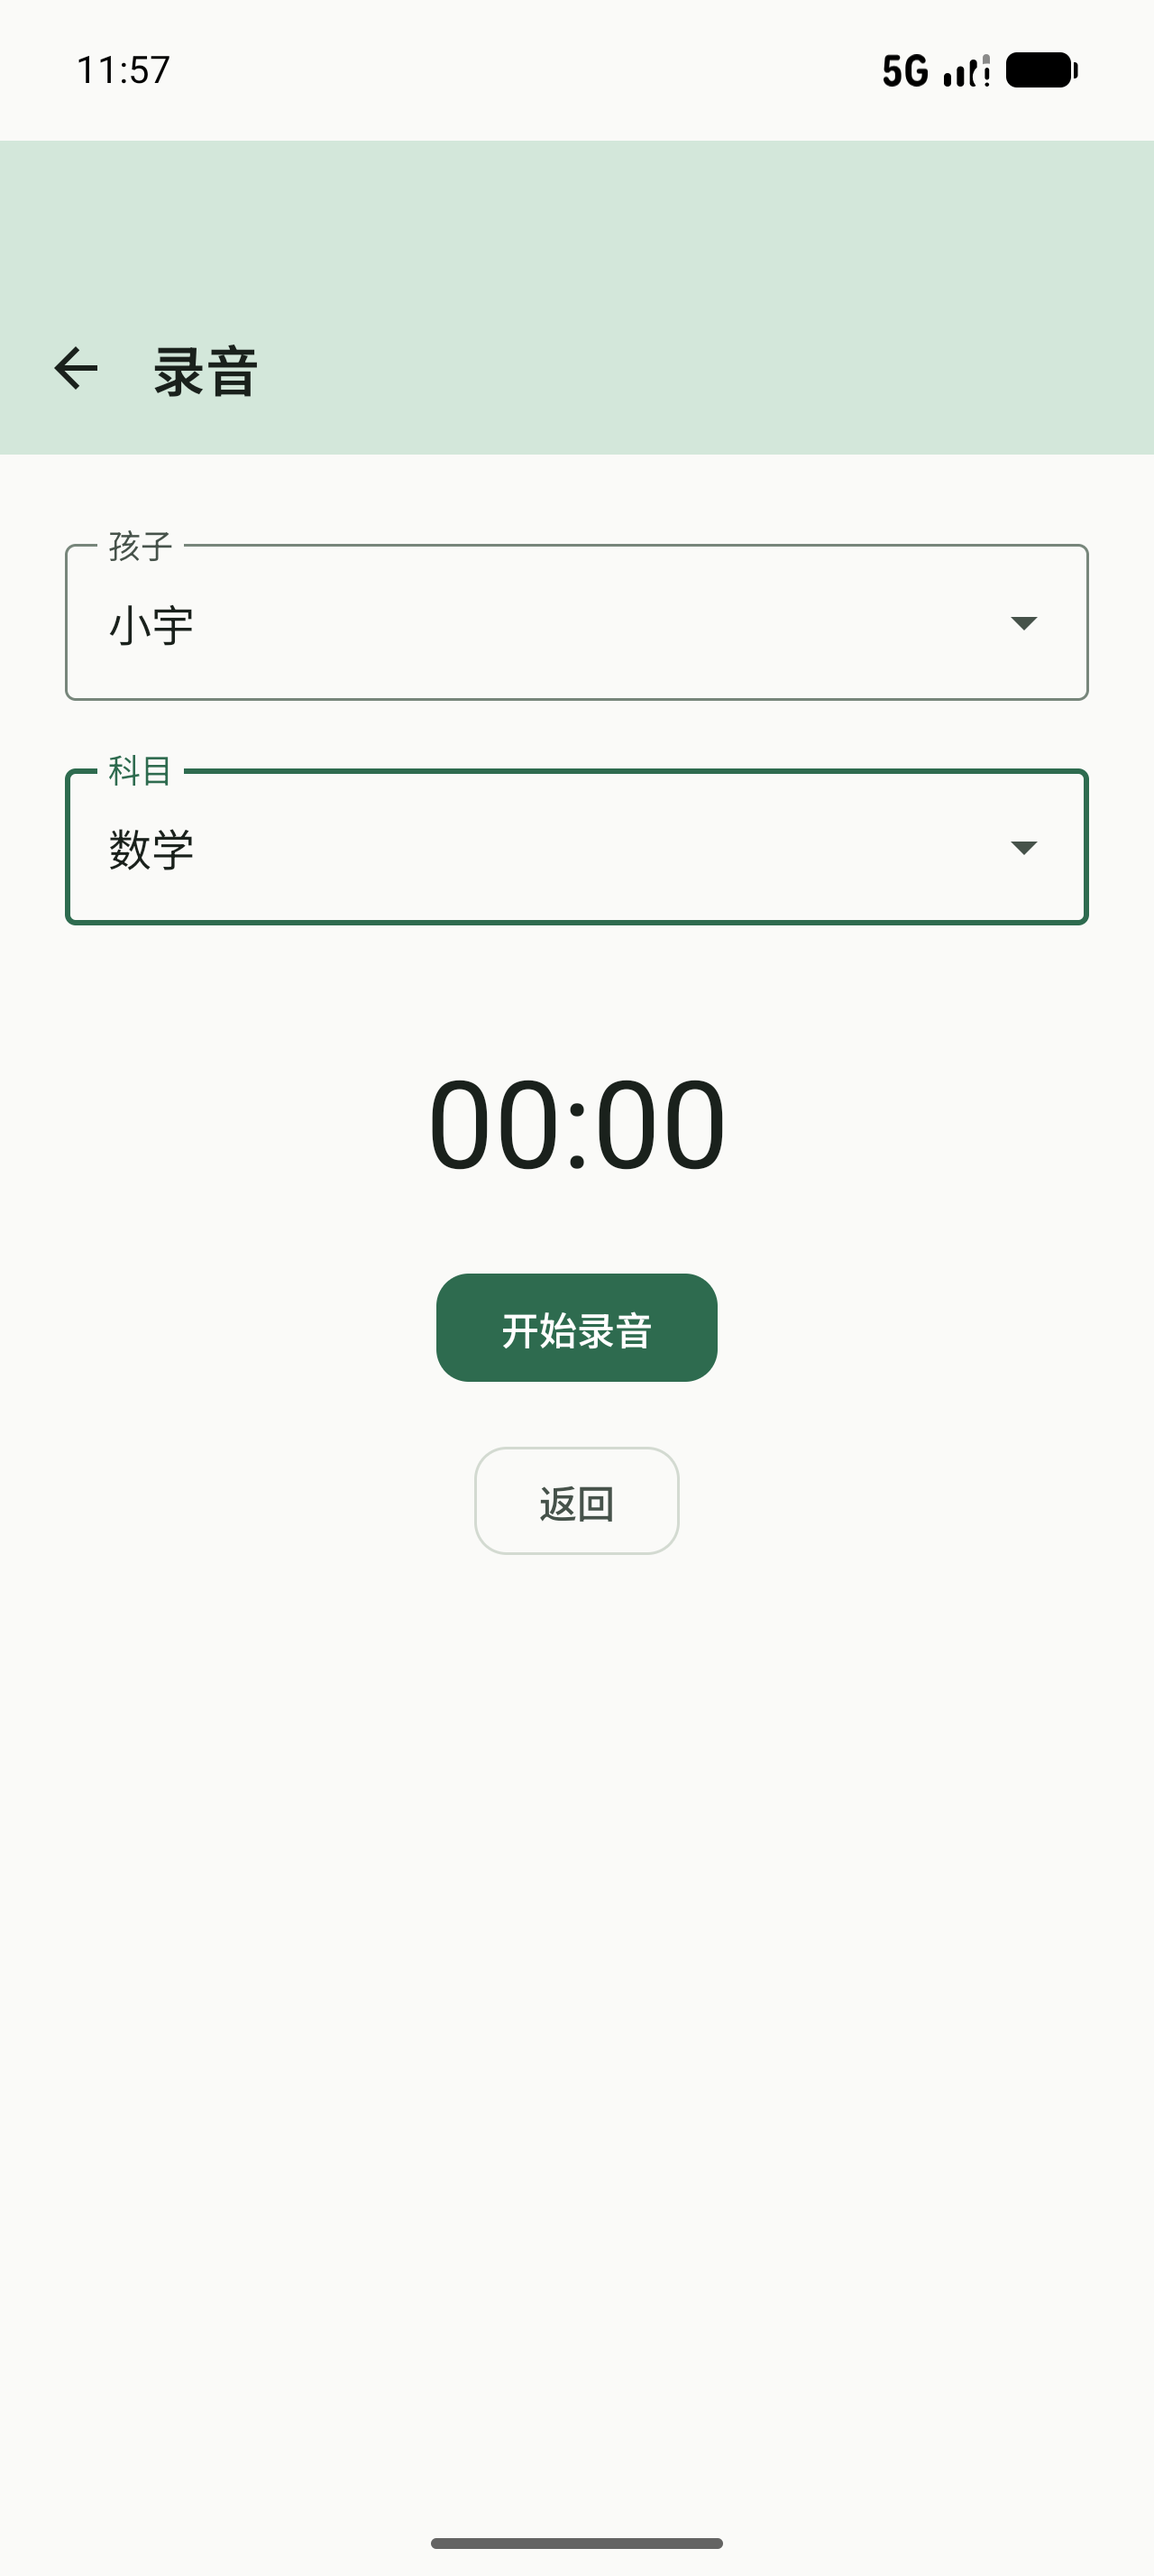
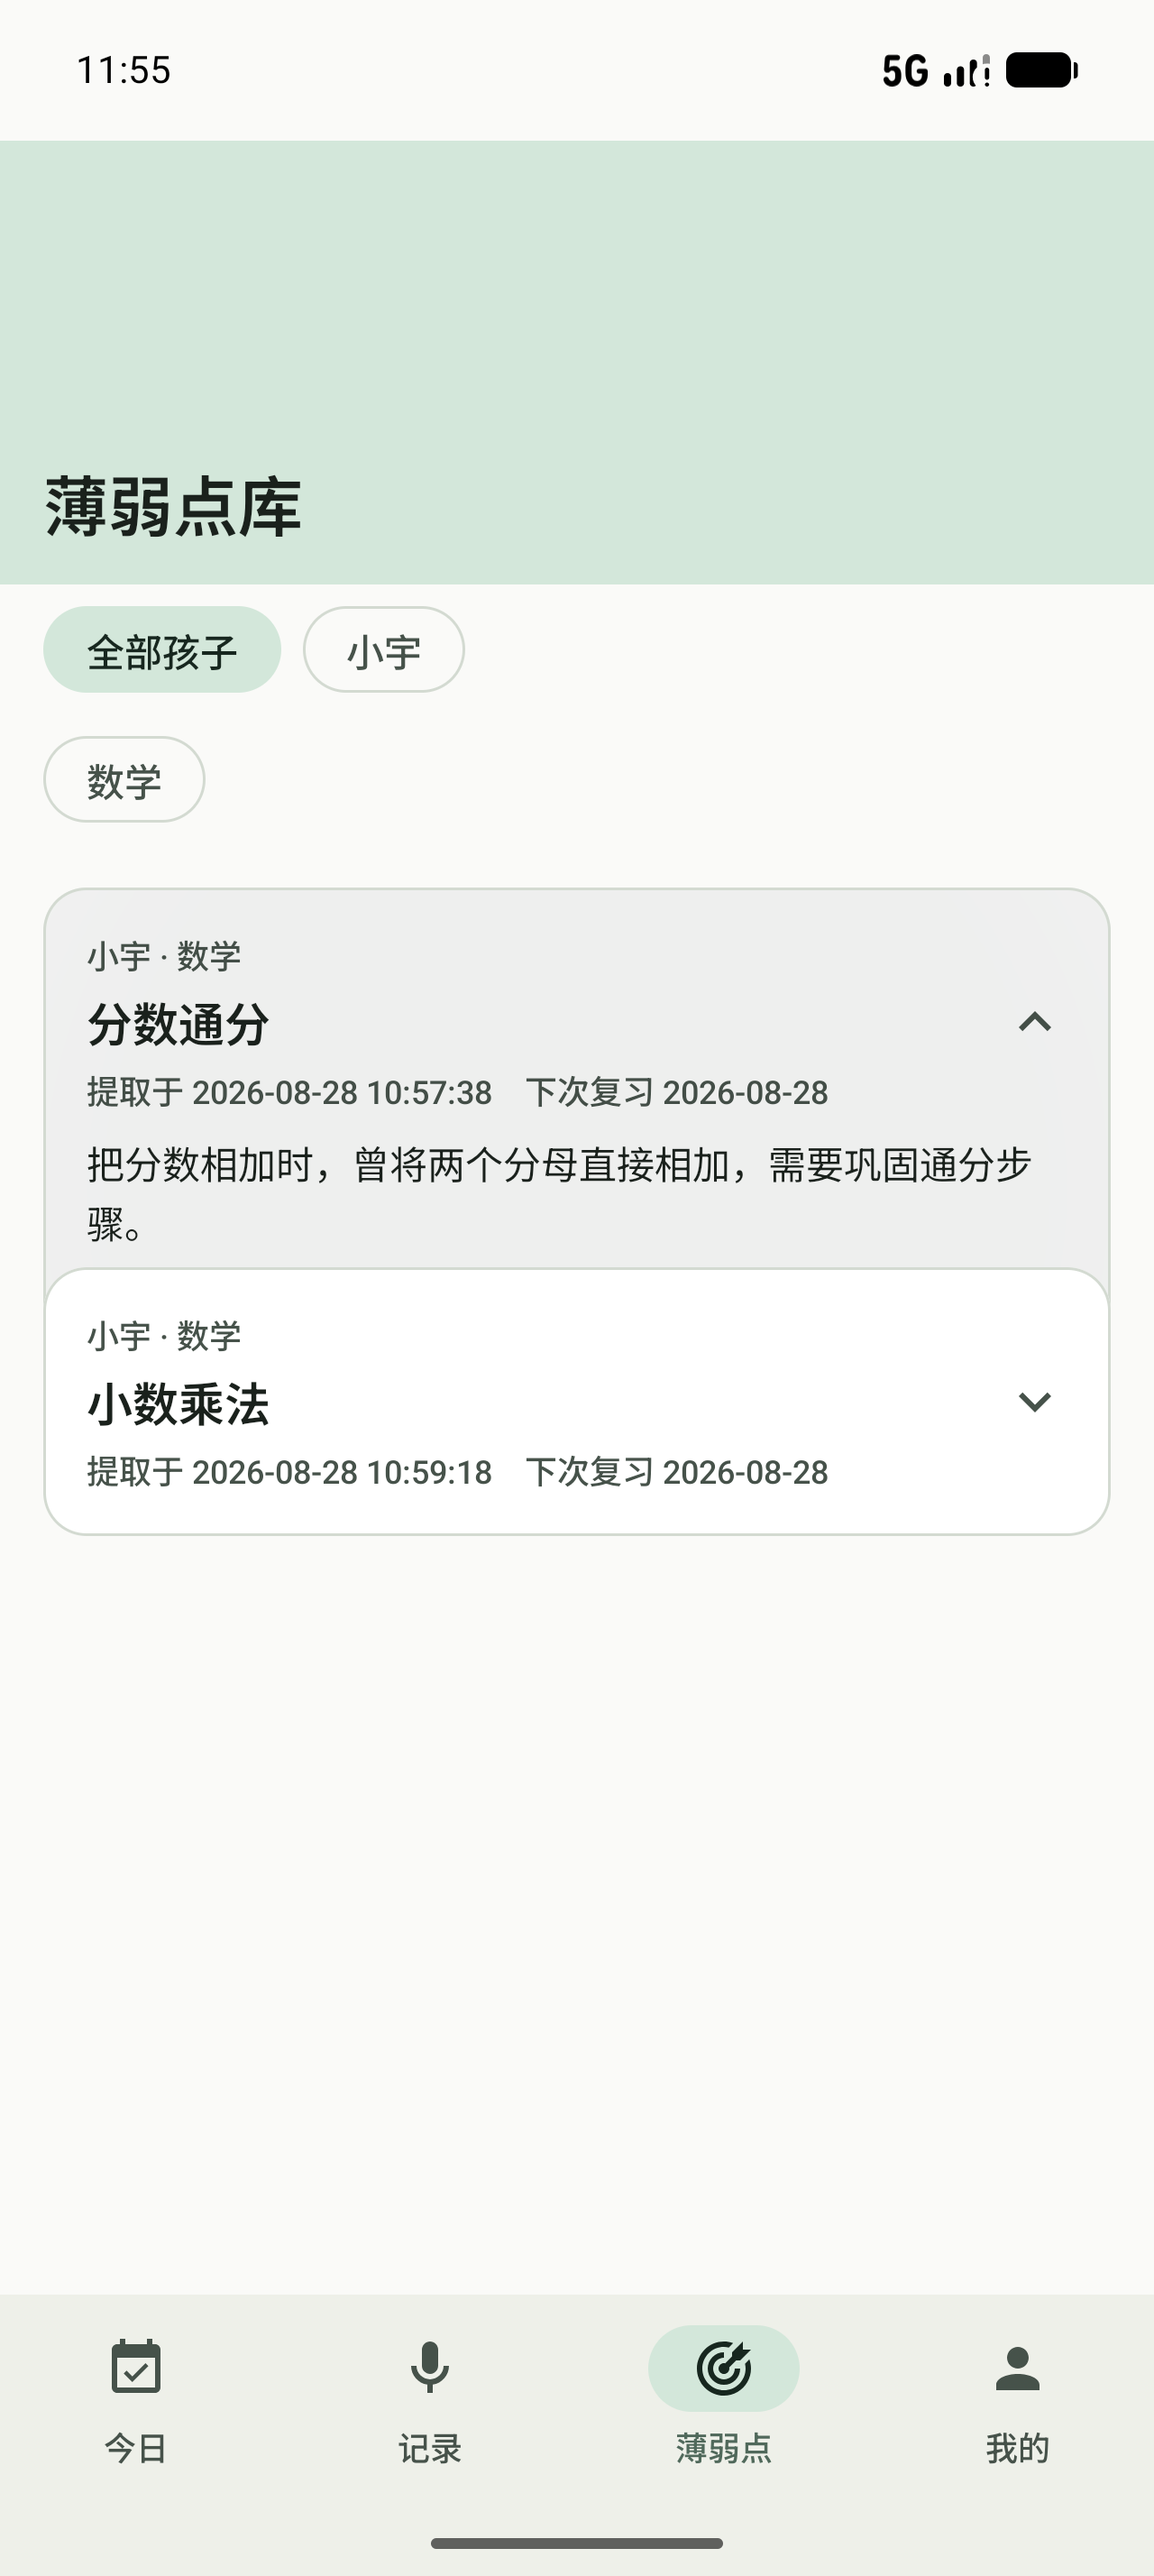
docs: 修正 README 截图与标题错配（按实际内容重命名）

diff --git a/README.md b/README.md
@@ -54,17 +54,17 @@
 
 ## 📱 界面预览 · Screenshots
 
-> 以下为**真实运行截图**（早期构建，核心流程至今未变）。
+> 以下为**真实运行截图**（早期构建，核心流程至今未变）。截图中的孩子「小宇」与辅导内容均为模拟器上的**演示数据**，非真实用户数据。
 
 <div align="center">
 
-| 录音准备 | 录音中 | 转写详情 |
+| 录音准备 | 录音中 | 记录详情 · 分角色转写 |
 |:---:|:---:|:---:|
 | <img src="docs/screenshots/record-setup.png" width="210" /> | <img src="docs/screenshots/recording-live.png" width="210" /> | <img src="docs/screenshots/recording-detail.png" width="210" /> |
 
-| 薄弱点分析 | 孩子管理 | 我的 |
+| 薄弱点库 | 孩子管理 | 我的 |
 |:---:|:---:|:---:|
-| <img src="docs/screenshots/weakpoint-expanded.png" width="210" /> | <img src="docs/screenshots/children.png" width="210" /> | <img src="docs/screenshots/mine.png" width="210" /> |
+| <img src="docs/screenshots/weakpoint-library.png" width="210" /> | <img src="docs/screenshots/children.png" width="210" /> | <img src="docs/screenshots/mine.png" width="210" /> |
 
 </div>
 
